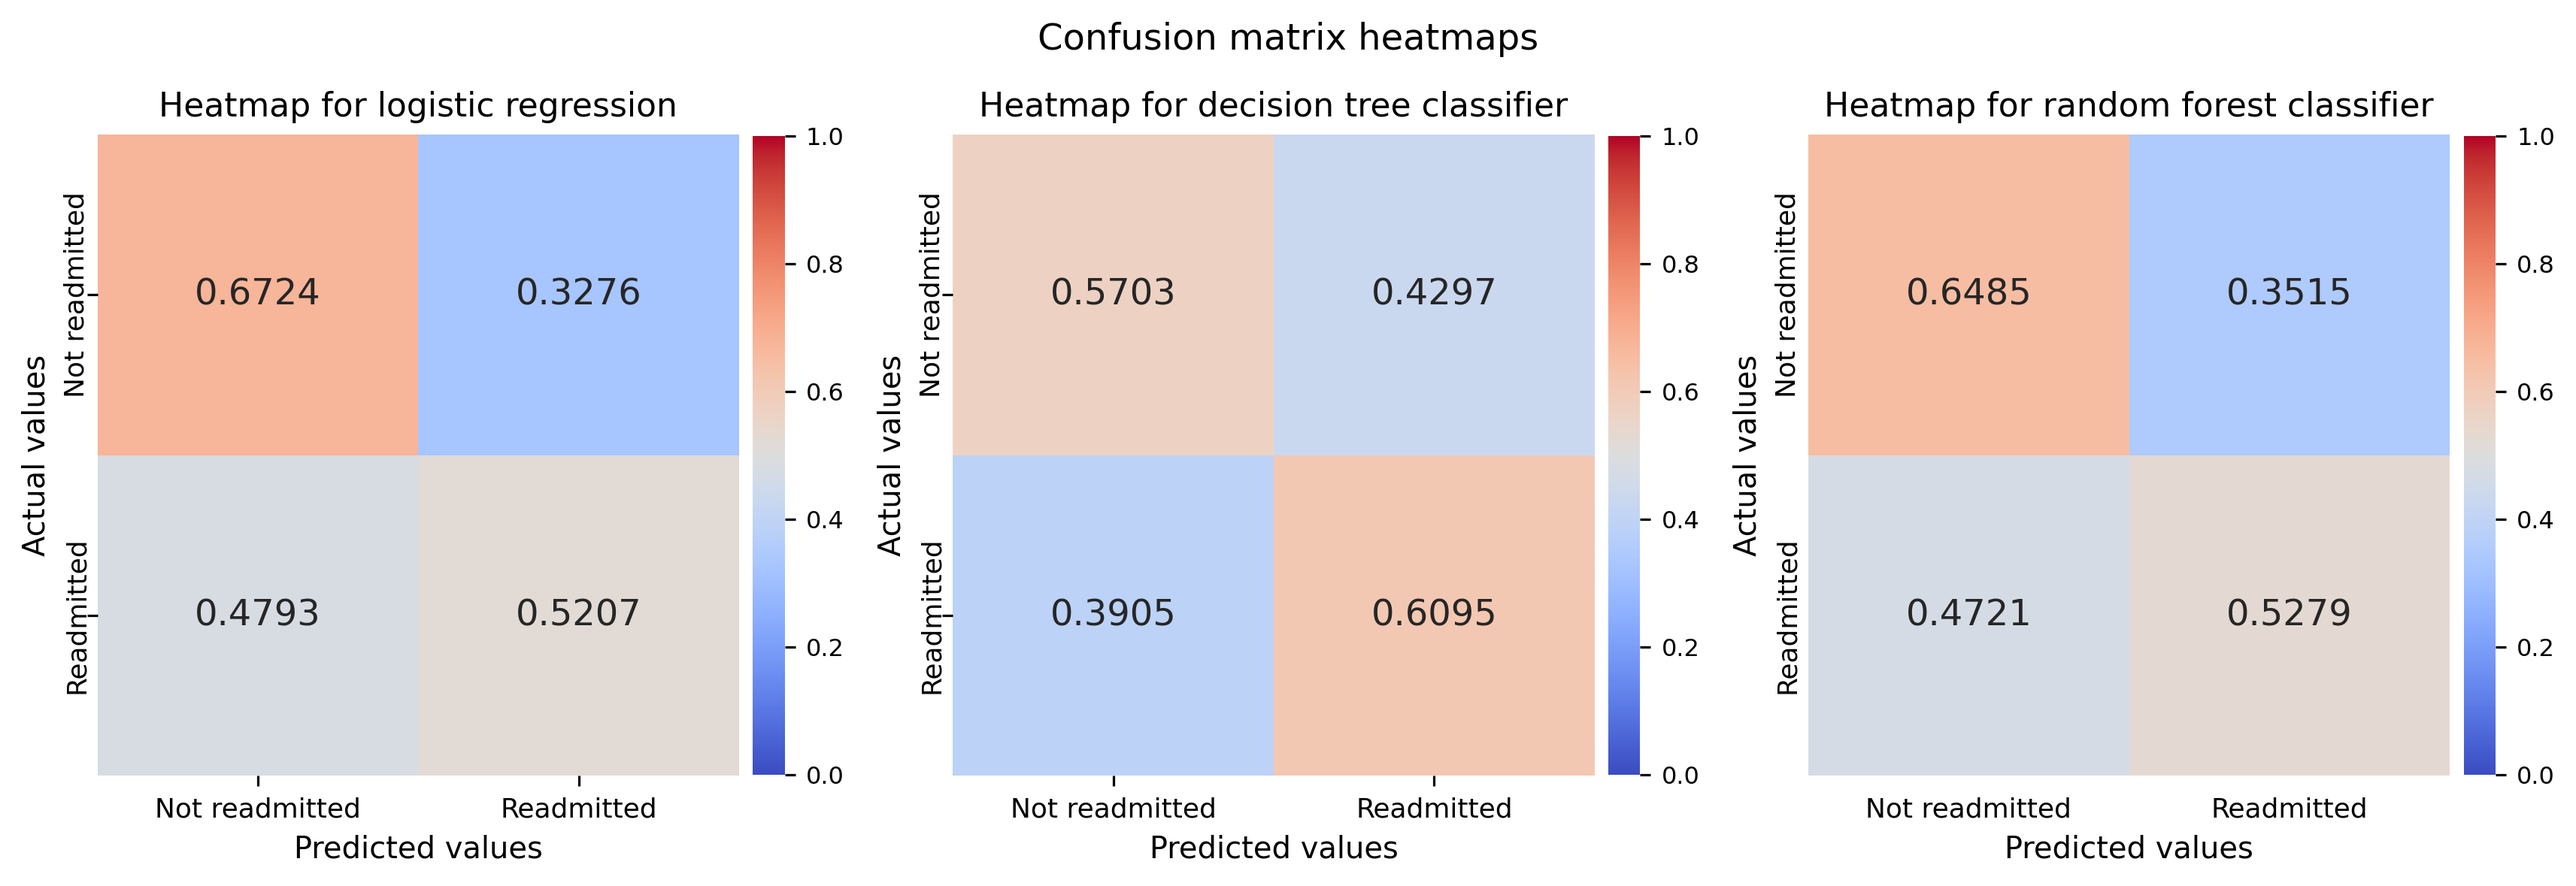
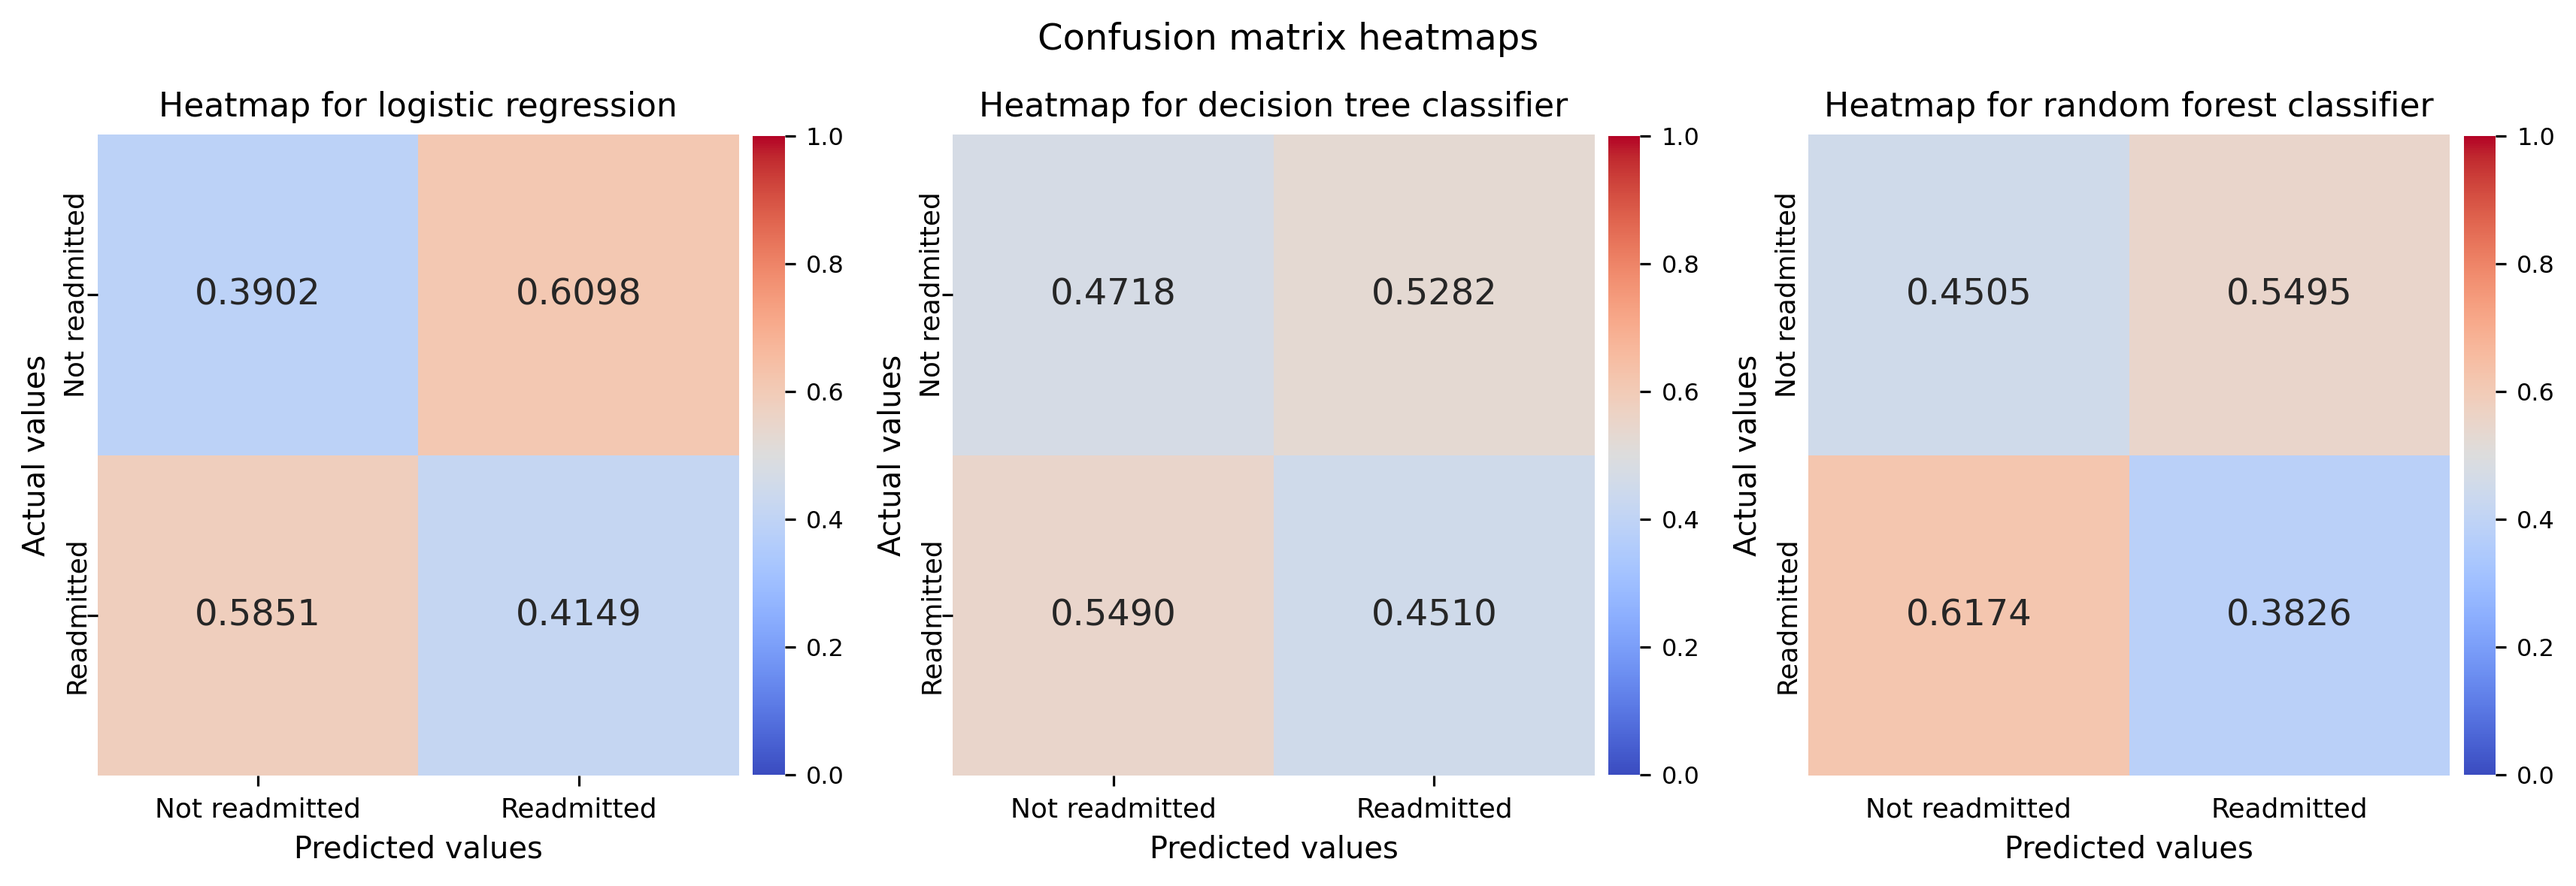
Using threshold=0.48

diff --git a/modeling.py b/modeling.py
@@ -79,30 +79,44 @@ with open('params.json', 'r') as f:
     model_params = json.load(f)
 
 # testing several data science algorithms
-model_dict = {
-    'Logistic regression': LogisticRegression(
-        n_jobs=-1,
-        C=model_params['params_lr']['C'],
-        solver='newton-cholesky'
-        ),
-    'Decision tree classifier': DecisionTreeClassifier(
-        max_depth=model_params['params_dt']['max_depth'],
-        min_samples_split=model_params['params_dt']['min_samples_split'],
-        random_state=model_params['params_dt']['random_state'],
-        ),
-    'Random forest classifier': RandomForestClassifier(
-        n_jobs=-1,
-        n_estimators=model_params['params_rf']['n_estimators'],
-        max_depth=model_params['params_rf']['max_depth'],
-        random_state=model_params['params_rf']['random_state'],
-        )
-    }
-
+use_hyperparameters = False
+if use_hyperparameters:
+    model_dict = {
+        'Logistic regression': LogisticRegression(
+            n_jobs=-1, max_iter=4000,
+            C=model_params['params_lr']['C'],
+            solver='newton-cholesky'
+            ),
+        'Decision tree classifier': DecisionTreeClassifier(
+            max_depth=model_params['params_dt']['max_depth'],
+            min_samples_split=model_params['params_dt']['min_samples_split'],
+            random_state=model_params['params_dt']['random_state'],
+            ),
+        'Random forest classifier': RandomForestClassifier(
+            n_jobs=-1,
+            n_estimators=model_params['params_rf']['n_estimators'],
+            max_depth=model_params['params_rf']['max_depth'],
+            random_state=model_params['params_rf']['random_state'],
+            )
+        }
+else:
+    model_dict = {
+        'Logistic regression': LogisticRegression(n_jobs=-1,
+                                                  max_iter=4000),
+        'Decision tree classifier': DecisionTreeClassifier(
+            random_state=model_params['params_dt']['random_state'],
+            ),
+        'Random forest classifier': RandomForestClassifier(
+            random_state=model_params['params_rf']['random_state'],
+            )
+        }
 # calculating balanced accuracy, confusion matrix, classification report
-# roc curve and auc values, and average Brier score
+# roc curve and auc values, and average Brier score using custom threshold
+pp_threshold = 0.48
+print(f'Threshold: {pp_threshold}')
 t0 = time()
 with open(work_dir / "stats_output.txt", "w") as f:
-    rus = RandomUnderSampler(sampling_strategy="majority",
+    rus = RandomUnderSampler(sampling_strategy='majority',
                              random_state=0)
     X_train_resampled, y_train_resampled = rus.fit_resample(X_train_pp,
                                                             y_train)
@@ -116,18 +130,20 @@ with open(work_dir / "stats_output.txt", "w") as f:
                                     return_estimator=True, n_jobs=-1,
                                     error_score="raise",)
         f.writelines(
-            f"Training accuracy mean +/- std. dev. for {name.lower()}: "
-            f"{cv_results['test_score'].mean():.3f} +/- "
-            f"{cv_results['test_score'].std():.3f}"
+            f"Training accuracy mean ± std. dev. for {name.lower()}: "
+            f"{np.round(cv_results['test_score'].mean(), 4)} ± "
+            f"{np.round(cv_results['test_score'].std(), 4)}"
             f"\n"
         )
         scores = []
         for cv_model in cv_results["estimator"]:
-            scores.append(balanced_accuracy_score(y_test,
-                                                  cv_model.predict(X_test_pp)))
+            y_test_pp = (cv_model.predict_proba(X_test_pp)[:, 1] <=
+                         pp_threshold).astype('int')
+            scores.append(balanced_accuracy_score(y_test, y_test_pp))
         f.writelines(
-            f"Testing accuracy mean +/- std. dev. for {name.lower()}: "
-            f"{np.mean(scores):.3f} +/- {np.std(scores):.3f}"
+            f"Testing accuracy mean ± std. dev. for {name.lower()}: "
+            f"{np.round(np.mean(scores), 4)} ± "
+            f"{np.round(np.std(scores), 4)}"
             f"\n\n"
         )
     f.writelines("\n")
@@ -135,7 +151,9 @@ with open(work_dir / "stats_output.txt", "w") as f:
     for name, model in model_dict.items():
         # confusion matrix with plot
         clf = model.fit(X_train_resampled, y_train_resampled)
-        cm = confusion_matrix(y_test, clf.predict(X_test_pp),)
+        y_test_pp = (clf.predict_proba(X_test_pp)[:, 1] <=
+                     pp_threshold).astype('int')
+        cm = confusion_matrix(y_test, y_test_pp,)
         f.writelines(f"Confusion matrix on {name.lower()} model: \n{cm}\n")
         cm_dict[name] = cm
         f.writelines("\n")
@@ -147,8 +165,9 @@ with open(work_dir / "stats_output.txt", "w") as f:
     print("Calculating precision, recall, F-measure and support...")
     for name, model in model_dict.items():
         clf = model.fit(X_train_resampled, y_train_resampled)
-        class_report = classification_report(y_test,
-                                             clf.predict(X_test_pp),
+        y_test_pp = (clf.predict_proba(X_test_pp)[:, 1] <=
+                     pp_threshold).astype('int')
+        class_report = classification_report(y_test, y_test_pp,
                                              digits=4)
         f.writelines(
             f"Precision, recall, F-measure and support on "
@@ -162,9 +181,9 @@ with open(work_dir / "stats_output.txt", "w") as f:
     rates_dict = {}
     for name, model in model_dict.items():
         clf = model.fit(X_train_resampled, y_train_resampled)
-        model_roc_auc = roc_auc_score(y_test, clf.predict(X_test_pp))
-        fpr, tpr, thresholds = roc_curve(y_test,
-                                         clf.predict_proba(X_test_pp)[:, 1])
+        y_test_pp = clf.predict_proba(X_test_pp)[:, 1]
+        model_roc_auc = roc_auc_score(y_test, y_test_pp)
+        fpr, tpr, thresholds = roc_curve(y_test, y_test_pp)
         f.writelines(f"Model: {name.title()}\n"
                      f"FPR: {len(fpr)}\nTPR: {len(tpr)}\n")
         f.writelines(f"Number of thresholds: {len(thresholds)}\n")
@@ -176,23 +195,16 @@ with open(work_dir / "stats_output.txt", "w") as f:
     # cross validation average Brier score
     def display_scores(model, scores):
         f.writelines(
-            f"Cross-validated average Brier score for "
-            f"the {model.lower()} model:\n"
+            f"Cross-validated average Brier score for {model.lower()}: "
+            f"{scores.mean():.4f} ± {scores.std():.4f}\n\n"
         )
-        # f.writelines(f'Scores: {scores}')
-        f.writelines(f"Average Brier score: {scores.mean():.4f}\n")
-        f.writelines(f"Standard devation: {scores.std():.4f}\n")
-        f.writelines("\n")
 
     print("Calculating cross-validated average Brier score...")
     for name, model in model_dict.items():
-        clf = model.fit(X_train_resampled, y_train_resampled)
-        scores = cross_val_score(
-            model, clf.predict(X_test_pp).reshape(-1, 1),
-            y_test, scoring="neg_brier_score",
-            cv=6, n_jobs=-1,
-        )
-        del clf
+        scores = cross_val_score(model, X_train_resampled,
+                                 y_train_resampled,
+                                 scoring="neg_brier_score",
+                                 cv=6, n_jobs=-1,)
         display_scores(name, -scores)
 
 print(f"Time elapsed: {(time() - t0):.2f} seconds")
